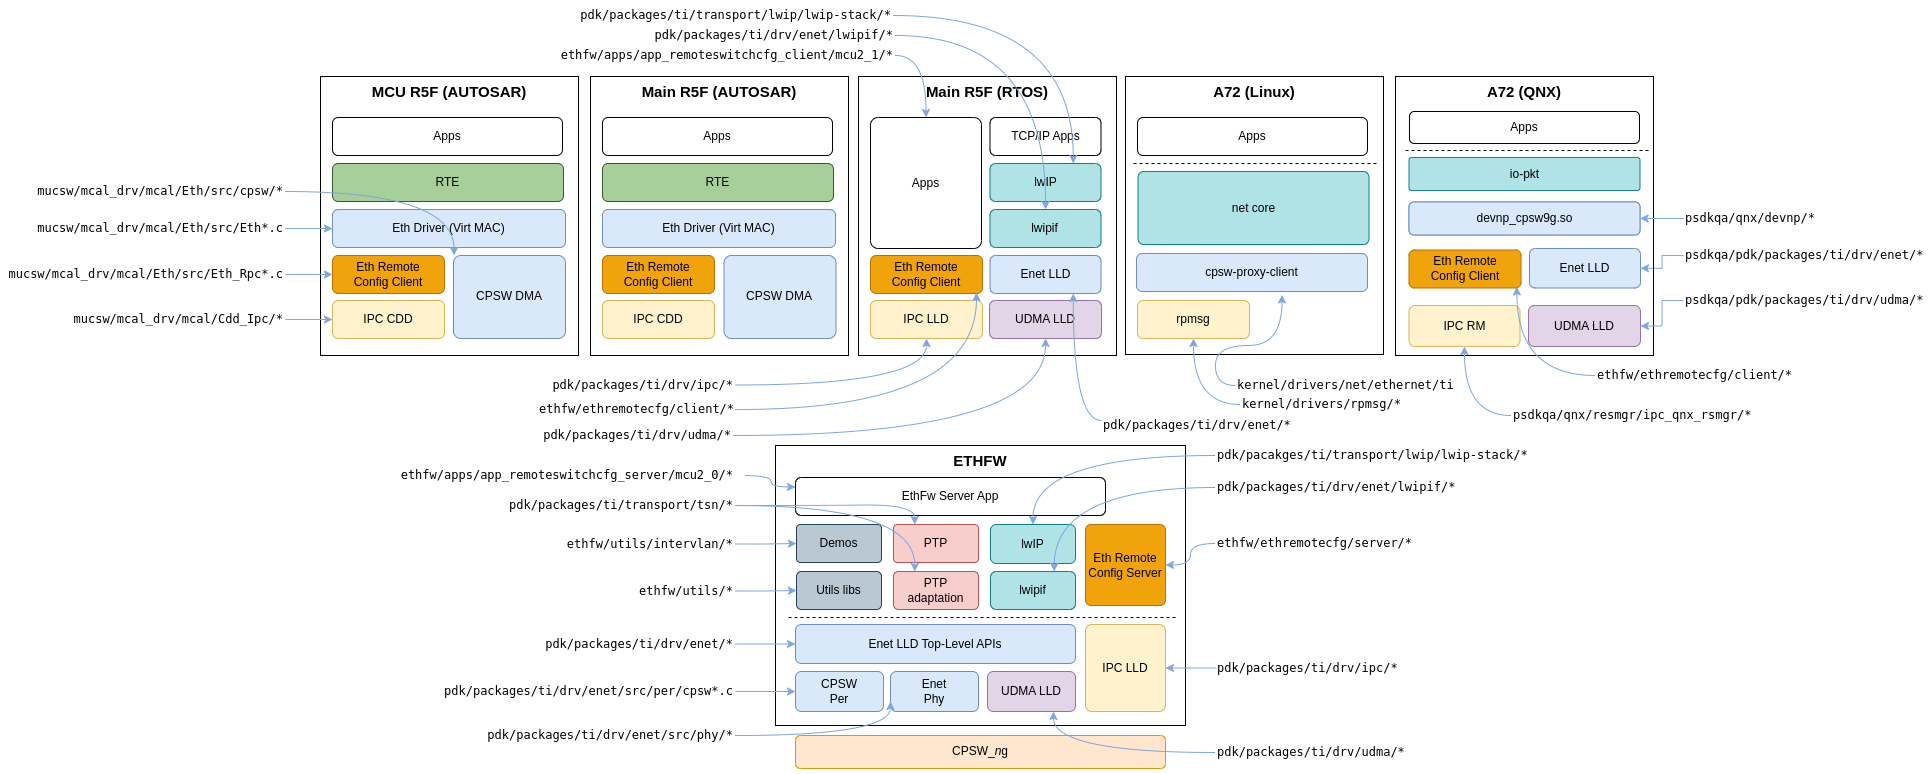
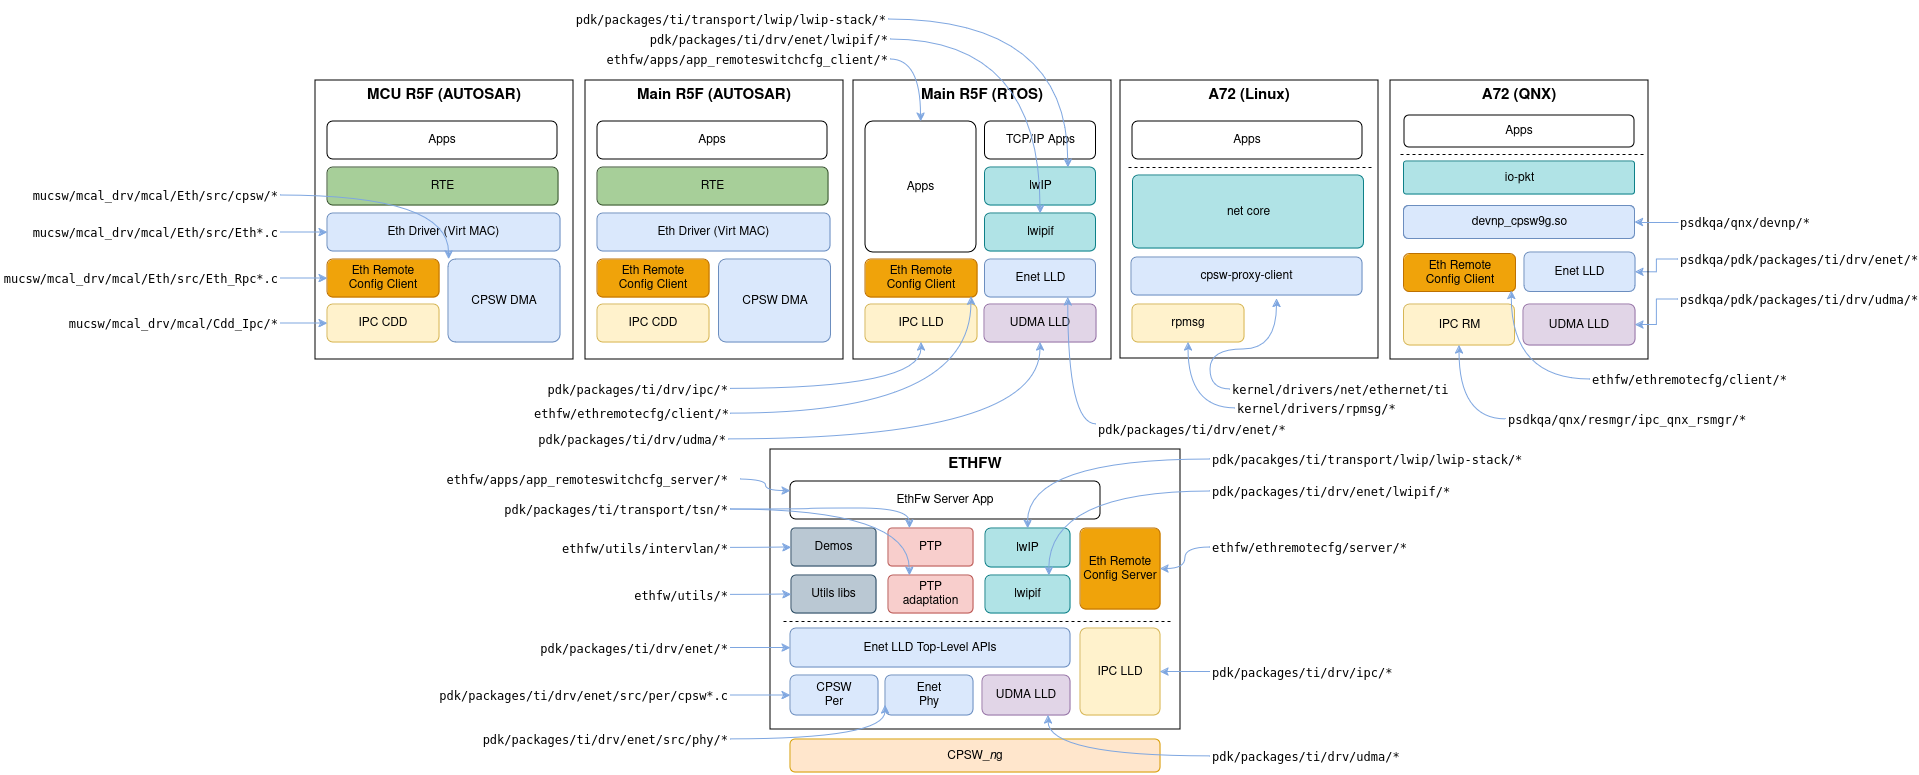
docs: apps: Directory restructure for server and client application
- New structure ensures reuse of main server application file
- irrespective of core it is built for
- File organization in the new structure is:
- app_remoteswitchcfg_server/client
- main.c
- concerto.mak
- <SOC>/<CORE>/linker_mem_map.cmd
- linker_<OS>_<CORE>.cmd

Fixes: ETHFW-2825

Changed region(s): [[0.0, 0.0, 1.0, 1.0], [0.7686, 0.5271, 0.9224, 0.5581], [0.6149, 0.6822, 0.7379, 0.7132]]

diff --git a/internal_docs/doxygen/content_pages/design_doc/02000_top_level_design.md b/internal_docs/doxygen/content_pages/design_doc/02000_top_level_design.md
@@ -9,14 +9,17 @@ The directory structure of the Ethernet Firmware is shown below::
 
     ethfw                                   # Root folder for Ethernet Firmware
     ├── apps                                # Ethernet firmware applications
-    │   ├── app_remoteswitchcfg_client      # Remote core client application
-    │   │   └── mcu_2_1
-    │   ├── app_remoteswitchcfg_server      # Ethernet Firmware server application
-    │   │   └── mcu_2_0
-    │   ├── common                          # Common MPU settings for J721E/J7200
-    │   ├── bios_cfg                        # Common BIOS configuration (deprecated)
-    │   ├── ipc_cfg                         # Common IPC configuration
-    │   └── tap                             # Linux user-space demo app for intercore interface
+    │   ├── app_remoteswitchcfg_client      # Remote core client application
+    │   │   ├── j7200
+    │   │   ├── j721e
+    │   │   ├── j784s4
+    │   ├── app_remoteswitchcfg_server      # Ethernet Firmware server application
+    │   │   ├── j7200
+    │   │   ├── j721e
+    │   │   ├── j784s4
+    │   ├── common                          # Common MPU settings for J721E/J7200
+    │   ├── ipc_cfg                         # Common IPC configuration
+    │   └── tap                             # Linux user-space demo app for intercore interface
     ├── concerto                            # Makefile-based build system common files
     │   └── compilers                       # Compiler specific common options
     ├── docs                                # User documentation
@@ -24,8 +27,9 @@ The directory structure of the Ethernet Firmware is shown below::
     │   ├── design_doc                      # Ethernet Firmware design document
     │   ├── misrac                          # MISRA-C reports
     │   ├── packeth_configurations          # packETH tool configurations (used for demo)
-    │   ├── test_report                     # Test and traceability reports
-    │   └── user_guide                      # Ethernet Firmware User's guide
+    │   ├── test_report                     # Test reports
+    │   ├── traceability_report             # Traceability reports
+    │   └── user_guide                      # Ethernet Firmware User's guide
     ├── ethremotecfg                        # EthSwitch Remote Device
     │   ├── client                          # Client side of the ethremotecfg framework
     │   │   ├── include
@@ -35,24 +39,44 @@ The directory structure of the Ethernet Firmware is shown below::
     │       ├── include
     │       └── src                         # Server libraries for proxy arp, vlan, vepa and mcast
     ├── makerules                           # Helper makefiles for NDK, PDK
-    └── utils                               # Helper utilities
-        ├── ethfw_callbacks                 # Frequently used lwIP callbacks
-        │   ├── include
-        │   └── src
-        ├── ethfw_common                    # Trace functionality and server/client common utils
-        │   ├── include
-        │   └── src
-        ├── ethfw_stats                     # Networking statistics services
-        │   ├── include
-        │   └── src
-        ├── intervlan                       # Hardware and software interVLAN demo utils
-        │   ├── include
-        │   └── src
+    ├── unit_test                           # Root folder for unit tests
+    │   ├── ethfw_test_app                  
+    │   │   ├── mcu_2_0                     # Unit test application for server
+    │   │   └── mcu_2_1                     # Unit test application for client
+    │   ├── ipc_cfg                         # Common IPC configuration for unit tests
+    │   ├── test_cases                      # Test cases (for both server and client)
+    │   └── unity                           # Framework used for unit test
+    │       ├── include
+    │       └── src
+    └── utils
+        ├── board
+        │   ├── include
+        │   └── src
         ├── console_io                      # Application logging utils
-        │   ├── include
-        │   └── src
-        ├── ctoolslib
-        └── mem                             # Memory allocation utils
+        │   ├── include
+        │   └── src
+        ├── ethfw_callbacks                 # Frequently used lwIP callbacks
+        │   ├── include
+        │   └── src
+        ├── ethfw_common                    # Trace functionality and server/client common utils
+        │   ├── include
+        │   └── src
+        ├── ethfw_estdemo                   # EST demo application
+        │   ├── include
+        │   └── src
+        ├── ethfw_stats                     # Networking statistics services
+        │   ├── include
+        │   └── src
+        ├── intervlan                       # Hardware and software interVLAN demo utils
+        │   ├── include
+        │   └── src
+        ├── mem                             # Memory allocation utils
+        │   ├── include
+        │   └── src
+        ├── perf_stats
+        │   ├── include
+        │   └── src
+        └── remote_service
             ├── include
             └── src
 

diff --git a/internal_docs/doxygen/content_pages/ethfw_demos/05001_demo_ethfw_combined.md b/internal_docs/doxygen/content_pages/ethfw_demos/05001_demo_ethfw_combined.md
@@ -212,7 +212,7 @@ demo.
 
 If dynamic IP configuration is not possible, static IPs can be setup as follows:
 
--# For Ethernet Firmware server, set below flag in `ethfw/apps/app_remoteswitchcfg_server/mcu_2_0/main.c`
+-# For Ethernet Firmware server, set below flag in `ethfw/apps/app_remoteswitchcfg_server/main.c`
    to disable DHCP and use static IP instead:
 
        #define ETHAPP_LWIP_USE_DHCP            (0)
@@ -223,7 +223,7 @@ If dynamic IP configuration is not possible, static IPs can be setup as follows:
        #define ETHFW_CLIENT_GW(addr)           IP4_ADDR((addr), 192,168,1,1)
        #define ETHFW_CLIENT_NETMASK(addr)      IP4_ADDR((addr), 255,255,255,0)
 
--# For RTOS client application, set below flag in `ethfw/apps/app_remoteswitchcfg_client/mcu_2_1/main.c`:
+-# For RTOS client application, set below flag in `ethfw/apps/app_remoteswitchcfg_client/main.c`:
 
        #define ETHAPP_LWIP_USE_DHCP            (0)
 
@@ -394,7 +394,7 @@ and difference in master-slave correction in nanoseconds.
 This stack supports gPTP config parameters which can be configured in the stack
 via application, like phase adjustment, clock modes, phase offsets etc.
 These params can be configured inside `EthApp_configPtpCb()` function in
-`<ethfw>/apps/app_remoteswitchcfg_server/mcu2_0/main.c` file.
+`<ethfw>/apps/app_remoteswitchcfg_server/main.c` file.
 
 By default, the gPTP Sync interval is set to 125 milliseconds.
 If you need a shorter Sync interval, you can adjust it by setting
@@ -1236,8 +1236,8 @@ between the A72 Linux and R5_0 (MCU2_0) master core. To achieve this, a TAP devi
 from and write to the Linux network stack.  Ethernet frames are copied from/to the shared memory
 region to allow other cores to access it.
 
-> **Note:** While building TAP application for non ADAS Linux, please update memory map addresses for intercore shared descriptors and data buffers from <b>`<ethfw>/apps/app_remoteswitchcfg_server/mcu_2_0/<soc>/linker_mem_map.cmd`</b> to <b>`<ethfw>/apps/tap/<soc>.conf`</b>
-> -# See INTERCORE_ETH_DESC_MEM and INTERCORE_ETH_DATA_MEM memory starting address (ORIGIN) with length (LENGTH) from <b>`<ethfw>/apps/app_remoteswitchcfg_server/mcu_2_0/<soc>/linker_mem_map.cmd`</b>
+> **Note:** While building TAP application for non ADAS Linux, please update memory map addresses for intercore shared descriptors and data buffers from <b>`<ethfw>/apps/app_remoteswitchcfg_server/<soc>/mcu_2_0/linker_mem_map.cmd`</b> to <b>`<ethfw>/apps/tap/<soc>.conf`</b>
+> -# See INTERCORE_ETH_DESC_MEM and INTERCORE_ETH_DATA_MEM memory starting address (ORIGIN) with length (LENGTH) from <b>`<ethfw>/apps/app_remoteswitchcfg_server/<soc>/mcu_2_0/linker_mem_map.cmd`</b>
 > -# Match the same with ICQ_BASE_ADDR and BUFPOOL_BASE_ADDR (with their corresponding memory length) in <b>`<ethfw>/apps/tap/<soc>.conf`</b>
 
 > As an extra check corresponding values should match with Linux device tree overlay's <b>reserved_memory</b> (i.e. main_r5fss0_core0_shared_memory_queue_region and main_r5fss0_core0_shared_memory_bufpool_region) for inter-core network communication as well. Download and install PSDK Linux, instructions are [here](https://software-dl.ti.com/jacinto7/esd/processor-sdk-rtos-jacinto7/latest/exports/docs/vision_apps/docs/user_guide/ENVIRONMENT_SETUP.html).

diff --git a/internal_docs/doxygen/content_pages/common_user_guide/01001_user_guide.md b/internal_docs/doxygen/content_pages/common_user_guide/01001_user_guide.md
@@ -787,7 +787,7 @@ the various netifs, including the lwIP bridge, created on the R5F_0 server core.
 which belong to the bridgeif. The individual netifs, including the Enet LLD netif, are neither
 visible to the network stack / application, nor do they get IP or MAC addresses.
  
-Please refer to the following code in `<ethfw>/apps/app_remoteswitchcfg_server/mcu_2_0/main.c`
+Please refer to the following code in `<ethfw>/apps/app_remoteswitchcfg_server/main.c`
 to understand how these netifs are instantiated and added to the bridge:
 
 ```C
@@ -845,7 +845,7 @@ lwIP bridge, created on the R5F_1 client core.
 which belong to the bridgeif. The individual netifs, including the Enet LLD netif, are neither
 visible to the network stack / application, nor do they get IP or MAC addresses.
 
-Please refer to the following code in `<ethfw>/apps/app_remoteswitchcfg_client/mcu_2_1/main.c`
+Please refer to the following code in `<ethfw>/apps/app_remoteswitchcfg_client/main.c`
 to understand how these netifs are instantiated and added to the bridge:
 
 ```C
@@ -1092,7 +1092,7 @@ if (ETHFW_IS_BIT_SET(virtPortMask, i) &&
 }
 ```
 
-Please refer to the following code in `<ethfw>/apps/app_remoteswitchcfg_server/mcu_2_0/main.c`
+Please refer to the following code in `<ethfw>/apps/app_remoteswitchcfg_server/main.c`
 to understand how application can configure VEPA configurations (i.e. private VLAN associated to
 each virtual switch port)
 
@@ -1156,7 +1156,7 @@ mechanism, therefore it is suited for low to medium bandwidth multicast traffic 
 -# The <b>shared multicast address list</b> is defined in source as shown below so the user
 will need to modify and rebuild the EthFw binaries if they need to change these addresses:
 
-Please refer to the following code in `<ethfw>/apps/app_remoteswitchcfg_server/mcu_2_0/main.c`:
+Please refer to the following code in `<ethfw>/apps/app_remoteswitchcfg_server/main.c`:
 
 ```C
 /* Must not exceed ETHAPP_MAX_SHARED_MCAST_ADDR entries */

diff --git a/apps/tap/README.md b/apps/tap/README.md
@@ -1,6 +1,6 @@
 # TAP User-space Application
-While building TAP application for non ADAS Linux, please update memory map addresses for intercore shared descriptors and data buffers from <b>`<ethfw>/apps/app_remoteswitchcfg_server/mcu_2_0/<soc>/linker_mem_map.cmd`</b> to <b>`<ethfw>/apps/tap/<soc>.conf`</b>.
-See INTERCORE_ETH_DESC_MEM and INTERCORE_ETH_DATA_MEM memory starting address (ORIGIN) with length (LENGTH) from <b>`<ethfw>/apps/app_remoteswitchcfg_server/mcu_2_0/<soc>/linker_mem_map.cmd`</b>.
+While building TAP application for non ADAS Linux, please update memory map addresses for intercore shared descriptors and data buffers from <b>`<ethfw>/apps/app_remoteswitchcfg_server/<soc>/mcu_2_0/linker_mem_map.cmd`</b> to <b>`<ethfw>/apps/tap/<soc>.conf`</b>.
+See INTERCORE_ETH_DESC_MEM and INTERCORE_ETH_DATA_MEM memory starting address (ORIGIN) with length (LENGTH) from <b>`<ethfw>/apps/app_remoteswitchcfg_server/<soc>/mcu_2_0/linker_mem_map.cmd`</b>.
 Match the same with ICQ_BASE_ADDR and BUFPOOL_BASE_ADDR (with their corresponding memory length) in <b>`<ethfw>/apps/tap/<soc>.conf`</b>.
 As an extra check corresponding values should match with Linux device tree overlay's <b>reserved_memory</b> (i.e. main_r5fss0_core0_shared_memory_queue_region and main_r5fss0_core0_shared_memory_bufpool_region) for inter-core network communication as well. Download and install PSDK Linux, instructions are [here](https://software-dl.ti.com/jacinto7/esd/processor-sdk-rtos-jacinto7/latest/exports/docs/vision_apps/docs/user_guide/ENVIRONMENT_SETUP.html).
 Device-tree overlays are present in <b>${PSDKL_PATH}/board-support/ti-linux-kernel-<version>/arch/arm64/boot/dts/ti</b> folder.
